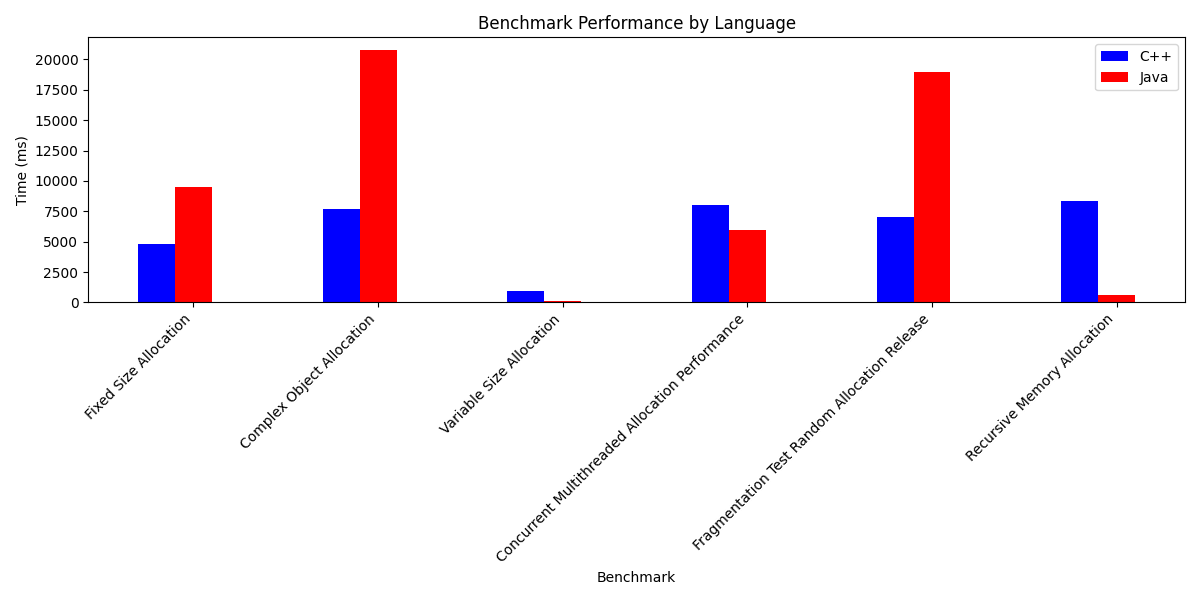
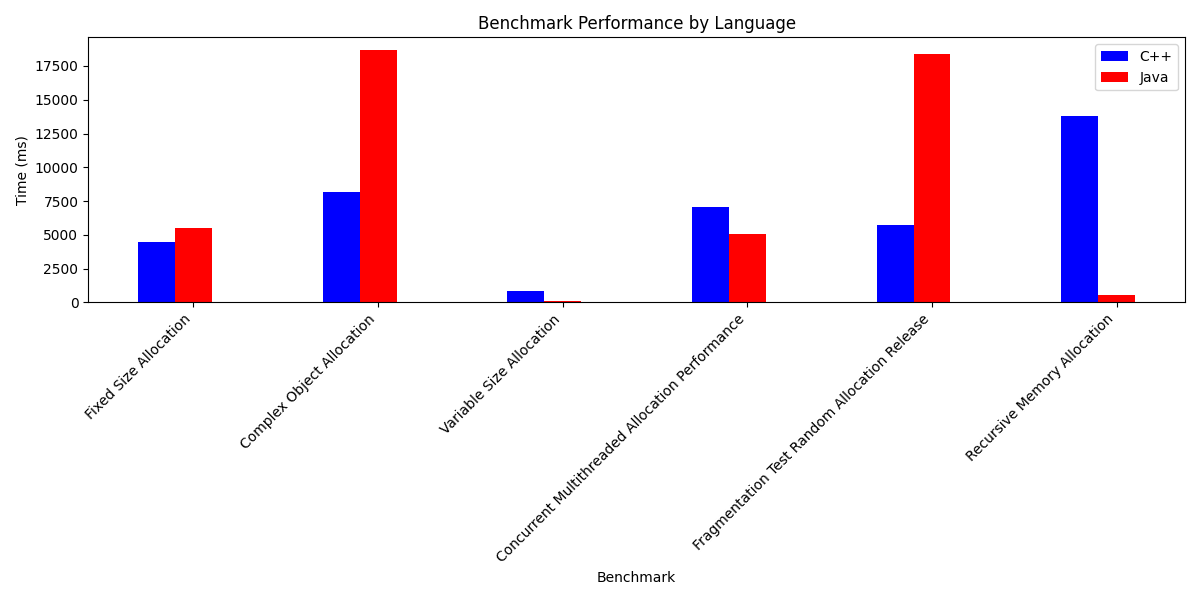
Recursive bench fixed

diff --git a/C++/Recursive_Memory_Allocation.hpp b/C++/Recursive_Memory_Allocation.hpp
@@ -30,30 +30,30 @@ public:
     }
 
 private:
-    int8_t* recursive_allocation(size_t depth, size_t size) {
-        if (depth == 0) {
-            int8_t* ptr = new int8_t[size];
-            std::memset(ptr, 0, size); // Fill the memory with zeros
-            return ptr;
-        }
+    void recursive_allocation(size_t depth, size_t size, std::vector<int8_t*>& blocks, size_t index = 0) {
+        if (index >= depth) return;
 
         int8_t* ptr = new int8_t[size];
-        std::memset(ptr, 0, size); // Fill the memory with zeros
-        int8_t* child = recursive_allocation(depth - 1, size);
+        std::memset(ptr, 0, size);
 
-        // Add some "useful" work with memory to prevent the compiler from optimizing it
-        std::memset(ptr, 1, size); // Modify the memory content
-        std::memcpy(child, ptr, size); // Copy data from ptr to child
+        blocks[index] = ptr;
 
-        delete[] ptr; // Free the intermediate memory
-        return child;
+        recursive_allocation(depth, size, blocks, index + 1);
+
+        std::memset(ptr, 1, size);
+        std::memcpy(blocks[depth - 1], ptr, size);
     }
 
     double measure_recursive_allocation(size_t depth, size_t size) {
+        std::vector<int8_t*> blocks(depth);
+
         auto start = std::chrono::steady_clock::now();
-        int8_t* last = recursive_allocation(depth, size);
-        delete[] last; // Free the last block of memory
+        recursive_allocation(depth, size, blocks);
+        for (int8_t* ptr : blocks) {
+            delete[] ptr;
+        }
         auto end = std::chrono::steady_clock::now();
+        
         return std::chrono::duration<double, std::milli>(end - start).count();
     }
 };

diff --git a/JavaJMH/app/src/main/java/org/example/Recursive_Memory_Allocation.java b/JavaJMH/app/src/main/java/org/example/Recursive_Memory_Allocation.java
@@ -19,35 +19,34 @@ import java.util.Arrays;
 public class Recursive_Memory_Allocation {
 
     @Param({"1000"}) 
-    private long depth;
+    private int depth;
     @Param({"128"}) 
-    private long allocationSize;
+    private int allocationSize;
 
+    private byte[][] blocks;
+
+    @Setup(Level.Iteration)
+    public void setup() {
+        blocks = new byte[depth][];
+    }
 
     @Benchmark
     public void measureRecursiveAllocation() {
-        byte[] last = recursiveAllocation(depth, allocationSize);
-        last = null;
+        recursiveAllocation(blocks, allocationSize, 0);
+        for (int i = 0; i < depth; i++) {
+            blocks[i] = null;
+        }
         System.gc();
     }
-
-    private byte[] recursiveAllocation(long depth, long size) {
-        if (depth == 0) {
-            byte[] ptr = new byte[(int) size];
-            Arrays.fill(ptr, (byte) 0);
-            return ptr;
-        }
-
-        byte[] ptr = new byte[(int) size];
+    
+    private void recursiveAllocation(byte[][] blocks, int size, int index) {
+        if (index >= blocks.length) return;
+        byte[] ptr = new byte[size];
         Arrays.fill(ptr, (byte) 0);
-        byte[] child = recursiveAllocation(depth - 1, size);
-
+        blocks[index] = ptr;
+        recursiveAllocation(blocks, size, index + 1);
         Arrays.fill(ptr, (byte) 1);
-        System.arraycopy(ptr, 0, child, 0, (int) size);
-
-        ptr = null;
-        //System.gc();
-        return child;
+        System.arraycopy(ptr, 0, blocks[blocks.length - 1], 0, size);
     }
 
     public void run(long depth, long allocationSize) throws RunnerException {

diff --git a/C++/main.cpp b/C++/main.cpp
@@ -159,8 +159,6 @@ int main() {
     std::ofstream clearFile("CXX_Benchmark_results.txt", std::ios::trunc);
     clearFile.close();
 
-    //Template for all run function arguments (in brackets special cases, depends on realization):
-    // Iterations(num of elements), Size of element(max size of elemnt), additional args(threads, e.t.c)
     std::cout << "-----------------------Fixed_Size_Allocation--------------------------------------\n";
     fixed_Size_Allocation.run(fixed_Size_Allocation_Config.allocation_size, fixed_Size_Allocation_Config.iterations);
     std::cout << "-----------------------Complex_Object_Allocation----------------------------------\n";

diff --git a/JavaJMH/app/src/main/java/org/example/BenchmarkRunner.java b/JavaJMH/app/src/main/java/org/example/BenchmarkRunner.java
@@ -22,7 +22,7 @@ public class BenchmarkRunner {
         try {
             System.out.println(System.getProperty("user.dir"));
             Map<String, BenchmarkConfig> configs = BenchmarkConfigLoader.loadConfig("../../benchmarks_config.ini");
- 
+  
             Fixed_Size_Allocation fixed_Size_Allocation = new Fixed_Size_Allocation();
             BenchmarkConfig fixed_Size_Allocation_Config = configs.get("Fixed_Size_Allocation");
             System.out.println("-----------------------Fixed_Size_Allocation--------------------------------------");
